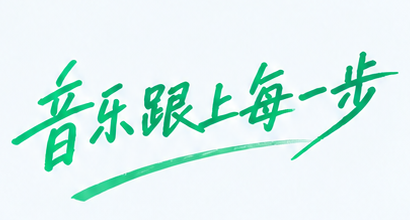
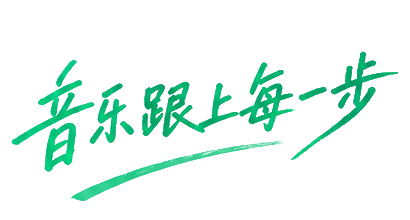
fix: 分享卡书法图混合模式修正，更新书法素材 (v0.1.1)

diff --git a/src/prototype.css b/src/prototype.css
@@ -125,6 +125,7 @@
 .share-covers span{position:relative;width:48px;height:48px;border-radius:5px;overflow:hidden;background:linear-gradient(145deg,#d8f3e7,#75d9aa)}
 .share-covers span:before{content:"♪";position:absolute;inset:0;display:grid;place-items:center;color:rgba(255,255,255,.9);font-size:20px;font-weight:800}
 .share-covers span img{position:relative;z-index:1;width:48px;height:48px;display:block;border-radius:0;object-fit:cover}
+.share-calligraphy{mix-blend-mode:normal}
 
 /* Input mode lives with the input itself, not in the bottom app chrome. */
 .voice-input-cluster{position:relative;width:238px;height:238px;margin-top:10px;flex:none}
